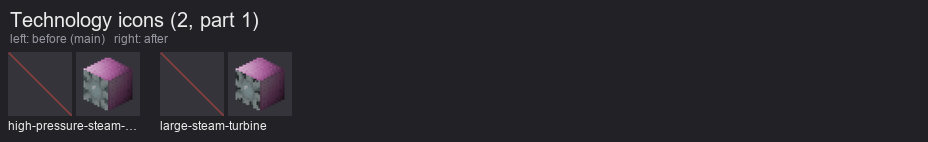
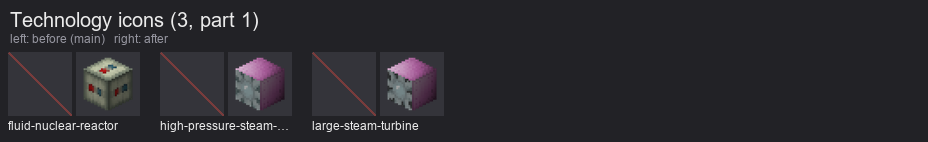
Build the fluid nuclear reactor and the large heat exchanger
Issue #97, part 2. The reactor is a recipe machine with a burner slot for
the fuel rods: at the 10.5 MW of the basic nuclear reactor it is built
from, it heats 21 coolant into hot coolant in 4 s (2 MJ per unit). The
large heat exchanger needs no power and turns hot coolant and distilled
water into coolant and steam (1 -> 40) or superheated steam (1 -> 20) at
GT's ratios and up to GT's 160 units per second; the player picks the
recipe, since a recipe cannot ask for GT's flow threshold. No lava recipe:
Gregtorio's lava is endless.

- 145: coolant (GT's mixer recipe at the tenth), hot coolant, both
  machines and their recipes, technology Fluid Nuclear Reactor (IV); the
  heat exchanger moves there from Nuclear Power, the reactor from Fusion
  Reactor MK1, the iridium neutron reflector comes there too
- the heat exchanger lists its outputs steam first: a machine fills its
  output boxes in the order of the recipe's results
- sprites (GT's heat exchanger, radiation proof casing), names, icon
- runtime test of the chain reactor -> heat exchanger -> high pressure
  turbine -> large steam turbine, the depleted rod and the steam recipe

Refs #97

diff --git a/tools/gen_sprites.py b/tools/gen_sprites.py
@@ -140,6 +140,14 @@ MULTIBLOCKS = {
                                   ("gregtech:iconsets/NAQUADAH_REACTOR_FLUID_FRONT",
                                    "gregtech:iconsets/NAQUADAH_REACTOR_FLUID_FRONT_ACTIVE"),
                                   "gregtech:iconsets/MACHINE_CASING_RADIATIONPROOF"),
+    # issue #97 (145-fork-power-multiblocks.lua): GT's large heat exchanger (stable titanium casing, titanium pipe
+    # casings in the middle row, its controller face) and the fluid nuclear reactor (GT's radiation proof casing
+    # around the upstream reactor icon; IC2's reactor has no texture in GT)
+    "large-heat-exchanger": ((3, 3), "stable-titanium-machine-casing", None,
+                             "gregtech:iconsets/OVERLAY_FRONT_HEAT_EXCHANGER",
+                             "gregtech:iconsets/MACHINE_CASING_PIPE_TITANIUM"),
+    "fluid-nuclear-reactor": ((3, 3), "gregtech:iconsets/MACHINE_CASING_RADIATIONPROOF", "fluid-nuclear-reactor",
+                              None, None),
 }
 # multiblocks without an upstream item icon: the icon is the controller tile
 CONTROLLER_ICONS = {"neutron-activator", "water-purification-plant", "uv-large-naquadah-reactor"}

diff --git a/tools/devcheck/devcheck.py b/tools/devcheck/devcheck.py
@@ -674,7 +674,7 @@ def runtime(a):
     print(f"benchmark: {ran.group(0) if ran else 'did not run'}")
     # the ME network's runtime tests are in me-network since issue #83 (its tools/devcheck)
     tests = (("MOLD", "mold test"), ("POWER", "power test"), ("FUEL", "fuel check test"), ("COOLED", "cooled fluid test"),
-             ("TIERS", "turbine tier test"), ("RECIPES", "recipe test"), ("STEAM", "steam turbine test"), ("VICTORY", "victory test"),
+             ("TIERS", "turbine tier test"), ("RECIPES", "recipe test"), ("STEAM", "steam turbine test"), ("CHAIN", "nuclear chain test"), ("VICTORY", "victory test"),
              ("POSTVICTORY", "post-victory test"))
     for key, label in tests:
         m = re.search(rf"DEVCHECK-RUNTIME-{key} (.*)", log)

diff --git a/tools/devcheck/README.md b/tools/devcheck/README.md
@@ -26,7 +26,7 @@ linked in, so every run tests the current files.
 | Command | What it does |
 |---|---|
 | `check` | Creates a map. Reports load errors, draft recipes hidden by the draft guard (it fails on one that is not in the documented rest list `DRAFTS_OK`, issue #39; drafts removed for good are deleted in `prototypes/137-fork-endgame-materials.lua` and counted as `FORK-REMOVED`), researchable technologies, where progression stops, every technology that cannot be researched and the disabled or missing prerequisites that block it (it fails if one is not in the list `UNRESEARCHABLE_OK` of vanilla armor, equipment and military techs, if one of the 23 quality-of-life techs of issue #29 in `QOL_TECHS` is neither researchable nor hidden, or if an `UNRESEARCHABLE_OK` entry became researchable, hidden or missing), missing `__gregtorio-continued__/` files, too small sprite sheets, and unlocked recipes that cannot be crafted (no machine, unobtainable ingredient, not enough fluid ports; a fuel that a burner which can be built burns leaves its burnt result, so the depleted fuel rods count as obtainable). Recipe unlocks (issue #91): every recipe that Gregtorio creates or changes (`prototypes.get_history`, logged by `checkmod/control.lua`) and that is not hidden must be enabled or unlocked by a researchable technology, unless it is in the allow-list `FORK_RECIPES_LOCKED` (`prototypes/142-fork-recipe-unlocks.lua`, with the reason); an entry that does not exist or is unlocked fails too. The recipes in `REQUIRED_RECIPES` (issue #35: grades 7 and 8, the quark creation catalyst, FPIC/APIC wafers and chips, complex SMDs; the materials of issues #39 and #36; the plasma forge and QFT of phase 6a; the godforge, its products and the MAX tier of phase 6b) must be unlocked by a researchable technology and their products obtainable. Crafting menu (issue #49): every recipe that is enabled or unlocked by a technology, not `hidden` and whose category has a machine must not be `hide_from_player_crafting`, unless it is in the allow-list `FORK_CRAFTING_MENU_HIDDEN` (`prototypes/198-fork-crafting-menu.lua`, by category, subgroup or name); it prints how many are shown and kept hidden and the recipes shown per crafting menu tab, and also fails on allow-list entries that match nothing. Skipped when the startup setting `gregtorio-continued-show-machine-recipes` is off. Fluids tab: every fluid that is not hidden (the base game's parameter fluids excepted) must have a subgroup of the item group `fluids`, else Factorio shows it under "Unsorted" (`prototypes/196-fork-subgroups.lua`); the check covers every fluid of the load, so also a vanilla fluid that Gregtorio redefines; fluids in the fallback row `gregtorio-fluids-unsorted` are listed as a warning; it prints the rows with their sizes. `--fluids-out fluids.tsv` writes the fluids with subgroup, order and icon (section `FLUIDS` of the dump), the input of `tools/gen_review_sheet.py fluids`. `--locale-out names.tsv` also writes the input for `tools/gen_locale.py`. `--techs REGEX` lists the matching technologies and whether they are researchable. `--balance-out dump.json` writes the recipes (amounts, times), machine speeds and technology unit counts as JSON (section `BALANCE` of the dump), the input of `tools/balance_model.py`. |
-| `runtime` | Places every assembling machine that has an item, gives it a recipe and power and runs the map (`--ticks`, default 1500) with a fixed map seed (`--seed`, see below). The ME network's runtime tests are in the mod me-network since issue #83 (`docs/SPLIT.md`): its `tools/devcheck/devcheck.py all --with-gregtorio <this checkout>` runs them on Gregtorio's recipes and machines. An LV alloy smelter with a mold recipe must stop without a mold, then run with a mold in its mold slot (checked when the first glass is out, at the latest 900 ticks later) and keep it there. Endgame power (`prototypes/136-fork-power.lua`, `scripts/fork-power.lua`): a LuV large plasma turbine with helium plasma and a turbine output hatch next to it and a UV large naquadah reactor with naquadah based fuel MK1, each with an electric energy interface drawing the generator's full output; at tick 420 both must generate, the turbine must have burnt about one plasma per second and the hatch must hold the cooled helium for it, the reactor must have burnt fuel at its rate; it reports `power test: ok`. Fuel check (issue #25, `scripts/fork-power.lua`): a LuV plasma turbine with steam from a pipe, a UV naquadah reactor with steam, a plasma turbine with naquadah fuel, a naquadah reactor with helium plasma, a UXV plasma turbine with steam and a UEV plasma turbine with naquadah fuel, each under full load in its own network, must make no power, keep all their fluid and show "Wrong fuel"; after they are emptied and get the right fuel they must run with no status. A running plasma turbine whose plasma is replaced by steam between two checks may burn steam for at most one check interval (10 ticks) and must then stay stopped; it reports `fuel check test: ok (window: ...)`. Cooled fluid (issue #28, `scripts/fork-power.lua`): LuV plasma turbines, each with an output hatch and a load set every tick, burn 4 helium plasma at full load, 2 at 40 % and 1.5 under a burst load (full for 5 ticks out of 23) to the last drop, and each hatch must then hold that much helium; an idle turbine returns only what filling its load's buffer took; a hatch that starts full keeps the rest owed and gets all of it once emptied; two turbines side by side on helium and nitrogen plasma fill only their own hatch. A running turbine is compared as hatch + owed + the energy of the current step / fuel value, tolerance 0.1 % + 0.001 units; it reports `cooled fluid test: ok (... worst error ...)`. The power test uses the same tolerance. Turbine tiers (issue #34): one UHV to UXV large plasma turbine each (helium, nitrogen and iron plasma), a UXV one on neon plasma and two MAX ones (phase 6b: helium and neon plasma), each with an output hatch and a load of twice its output, must generate exactly four amps of their tier per tick and, once their plasma is burnt to the last drop, hold exactly that much cooled fluid (helium, nitrogen, molten iron, neon) in the hatch, same tolerance; it reports `turbine tier test: ok (...)`. Recipes (issue #35, `prototypes/129-fork-water-purification.lua`): above the machine grid, a water purification plant each for grade 7 and grade 8 water, UHV/UEV laser engravers and assembling machines for the FPIC/APIC wafers and chips, UV assembling machines for the five complex SMDs, ZPM assembly lines for the quark creation catalyst, the UEV and UIV energy hatches and the MK4 controller, a circuit assembly line for the wetware mainframe, and for issues #39 and #36 (`prototypes/137-fork-endgame-materials.lua`) the circuit assembler lapotronic energy orb cluster, the high density plutonium steps and the plutonium fuel, super coolant, the 1080k super coolant cell, the fluxed electrum, bedrockium and quantium ingots and melts, naquadah fuel MK2, grade 5 water and the UXV energy hatch, phase 6a's plasma forge catalyst and crude spacetime and a QFT recipe, and phase 6b's raw star matter and neutronium magmatter in a godforge, the stellar catalyst in a plasma forge, the MAX motor, the maximum voltage coil in a MAX assembler and the MAX science pack from MAX parts, and for issue #91 (`prototypes/142-fork-recipe-unlocks.lua`) signalum, the naquadah doped boule, charcoal byproducts, cyanoacetic acid and super glue, nether air in its ender tank, 64 LV motors in the component assembly line, a microminer mission, a depleted fuel rod, a block, a molten alloy and its ingot, a cast of every form (ingot, plate, block, nugget, gear, large gear, rotor, rod, long rod, bolt, ring, screw, round) and three melts of the fluid extractor (`prototypes/143-fork-casting.lua`), blast furnace recipes with neon, krypton and xenon, nitric acid from nitrogen dioxide, raw gasoline, gasoline and the gasoline cell (`prototypes/144-fork-dead-fluids.lua`) get exactly one craft's ingredients (every item and fluid must fit; a recipe that needs a mold gets one in the mold slot); once a machine crafts, its progress is set close to the end and its main product must come out by tick 900; it reports `recipe test: ok`. Steam turbines (issue #97, `prototypes/145-fork-power-multiblocks.lua`): a large steam turbine on steam and a high pressure steam turbine on superheated steam, each overloaded and with an output hatch, must make exactly their full output (11.25 and 28.35 MW) at tick 240, have burnt their GT flow (180 and 210 per second, counted in the turbine and its pipeline segment) and their hatches must hold 0.0625 distilled water per steam and one steam per superheated steam (hatch + owed + the energy of the current step, the tolerance of the cooled fluid test); superheated steam in the large turbine and steam in the high pressure one must stop them with "Wrong fuel"; each multiblock of issue #97 is put into a blueprint (it must be in it) and mined (its item must come back); it reports `steam turbine test: ok (...)`. When every other test has reported (at the latest at tick 1450, a test still running then is reported as unfinished) the technology `victory` is researched by script and the game must be finished (`scripts/fork-victory.lua`); winning stops the scripts of the benchmark, so this runs last. In the same tick the post-victory test (phase 6b) researches the prerequisites of the infinite `godforge-upgrades` by script; the engine must accept it in the research queue (`victory` is no prerequisite: an infinite technology counts only at its last level), and its first level must give the godforge's magmatter recipe +5 % productivity (`post-victory test: ok`). |
+| `runtime` | Places every assembling machine that has an item, gives it a recipe and power and runs the map (`--ticks`, default 1500) with a fixed map seed (`--seed`, see below). The ME network's runtime tests are in the mod me-network since issue #83 (`docs/SPLIT.md`): its `tools/devcheck/devcheck.py all --with-gregtorio <this checkout>` runs them on Gregtorio's recipes and machines. An LV alloy smelter with a mold recipe must stop without a mold, then run with a mold in its mold slot (checked when the first glass is out, at the latest 900 ticks later) and keep it there. Endgame power (`prototypes/136-fork-power.lua`, `scripts/fork-power.lua`): a LuV large plasma turbine with helium plasma and a turbine output hatch next to it and a UV large naquadah reactor with naquadah based fuel MK1, each with an electric energy interface drawing the generator's full output; at tick 420 both must generate, the turbine must have burnt about one plasma per second and the hatch must hold the cooled helium for it, the reactor must have burnt fuel at its rate; it reports `power test: ok`. Fuel check (issue #25, `scripts/fork-power.lua`): a LuV plasma turbine with steam from a pipe, a UV naquadah reactor with steam, a plasma turbine with naquadah fuel, a naquadah reactor with helium plasma, a UXV plasma turbine with steam and a UEV plasma turbine with naquadah fuel, each under full load in its own network, must make no power, keep all their fluid and show "Wrong fuel"; after they are emptied and get the right fuel they must run with no status. A running plasma turbine whose plasma is replaced by steam between two checks may burn steam for at most one check interval (10 ticks) and must then stay stopped; it reports `fuel check test: ok (window: ...)`. Cooled fluid (issue #28, `scripts/fork-power.lua`): LuV plasma turbines, each with an output hatch and a load set every tick, burn 4 helium plasma at full load, 2 at 40 % and 1.5 under a burst load (full for 5 ticks out of 23) to the last drop, and each hatch must then hold that much helium; an idle turbine returns only what filling its load's buffer took; a hatch that starts full keeps the rest owed and gets all of it once emptied; two turbines side by side on helium and nitrogen plasma fill only their own hatch. A running turbine is compared as hatch + owed + the energy of the current step / fuel value, tolerance 0.1 % + 0.001 units; it reports `cooled fluid test: ok (... worst error ...)`. The power test uses the same tolerance. Turbine tiers (issue #34): one UHV to UXV large plasma turbine each (helium, nitrogen and iron plasma), a UXV one on neon plasma and two MAX ones (phase 6b: helium and neon plasma), each with an output hatch and a load of twice its output, must generate exactly four amps of their tier per tick and, once their plasma is burnt to the last drop, hold exactly that much cooled fluid (helium, nitrogen, molten iron, neon) in the hatch, same tolerance; it reports `turbine tier test: ok (...)`. Recipes (issue #35, `prototypes/129-fork-water-purification.lua`): above the machine grid, a water purification plant each for grade 7 and grade 8 water, UHV/UEV laser engravers and assembling machines for the FPIC/APIC wafers and chips, UV assembling machines for the five complex SMDs, ZPM assembly lines for the quark creation catalyst, the UEV and UIV energy hatches and the MK4 controller, a circuit assembly line for the wetware mainframe, and for issues #39 and #36 (`prototypes/137-fork-endgame-materials.lua`) the circuit assembler lapotronic energy orb cluster, the high density plutonium steps and the plutonium fuel, super coolant, the 1080k super coolant cell, the fluxed electrum, bedrockium and quantium ingots and melts, naquadah fuel MK2, grade 5 water and the UXV energy hatch, phase 6a's plasma forge catalyst and crude spacetime and a QFT recipe, and phase 6b's raw star matter and neutronium magmatter in a godforge, the stellar catalyst in a plasma forge, the MAX motor, the maximum voltage coil in a MAX assembler and the MAX science pack from MAX parts, and for issue #91 (`prototypes/142-fork-recipe-unlocks.lua`) signalum, the naquadah doped boule, charcoal byproducts, cyanoacetic acid and super glue, nether air in its ender tank, 64 LV motors in the component assembly line, a microminer mission, a depleted fuel rod, a block, a molten alloy and its ingot, a cast of every form (ingot, plate, block, nugget, gear, large gear, rotor, rod, long rod, bolt, ring, screw, round) and three melts of the fluid extractor (`prototypes/143-fork-casting.lua`), blast furnace recipes with neon, krypton and xenon, nitric acid from nitrogen dioxide, raw gasoline, gasoline and the gasoline cell (`prototypes/144-fork-dead-fluids.lua`) get exactly one craft's ingredients (every item and fluid must fit; a recipe that needs a mold gets one in the mold slot); once a machine crafts, its progress is set close to the end and its main product must come out by tick 900; it reports `recipe test: ok`. Steam turbines (issue #97, `prototypes/145-fork-power-multiblocks.lua`): a large steam turbine on steam and a high pressure steam turbine on superheated steam, each overloaded and with an output hatch, must make exactly their full output (11.25 and 28.35 MW) at tick 240, have burnt their GT flow (180 and 210 per second, counted in the turbine and its pipeline segment) and their hatches must hold 0.0625 distilled water per steam and one steam per superheated steam (hatch + owed + the energy of the current step, the tolerance of the cooled fluid test); superheated steam in the large turbine and steam in the high pressure one must stop them with "Wrong fuel"; each multiblock of issue #97 is put into a blueprint (it must be in it) and mined (its item must come back); it reports `steam turbine test: ok (...)`. Nuclear chain (issue #97): a fluid nuclear reactor with two uranium rods (the first shortened to 2 s) piped into a large heat exchanger on superheated steam, a high pressure steam turbine on it, its steam through an output hatch and pipes into a large steam turbine, both turbines under a load of twice their output; coolant and distilled water are topped up every tick. At tick 1380 a depleted rod must be out and the second rod burning, both turbines must have made power, and their energy since tick 300 must be 3.95 MJ per hot coolant the reactor made (60 % to 125 %: the 4 s crafts and the pipes); a second heat exchanger on the steam recipe turns 32 hot coolant and 80 distilled water into exactly 1280 steam and 32 coolant; it reports `nuclear chain test: ok (...)`. When every other test has reported (at the latest at tick 1450, a test still running then is reported as unfinished) the technology `victory` is researched by script and the game must be finished (`scripts/fork-victory.lua`); winning stops the scripts of the benchmark, so this runs last. In the same tick the post-victory test (phase 6b) researches the prerequisites of the infinite `godforge-upgrades` by script; the engine must accept it in the research queue (`victory` is no prerequisite: an infinite technology counts only at its last level), and its first level must give the godforge's magmatter recipe +5 % productivity (`post-victory test: ok`). |
 | `migrate --from-ref <tag/commit>` or `--from-zip <zip>` | Creates a save (same fixed map seed, `--seed`) with an older version and loads it with the working copy. When the working copy still has the version of the old save (between releases), it is loaded as a zip one patch version up, as the release will be, so that Gregtorio's `on_configuration_changed` runs with its mod changes. `--old-me-network <ref>` creates the old save with that release of the me-network checkout (exported with `git archive`; Gregtorio 0.5.0 shipped with me-network v0.1.0, whose fluid interface the current me-network no longer has) and loads it with the current one. Technology effects (issue #91): the old save researches a few technologies with their prerequisites (`TT_TECHS` of `migratemod/`); after the update every recipe that a researched technology unlocks must be enabled (the technology effect reset of `control.lua` brings the new unlocks into existing saves; `technology effects of the old save: ok (... N of them new)`). The unmodified upstream 0.1.9 import is commit `0e935ba` (tag `v0.1.9-upstream`). If the old version has ME fluid drives, the helper mod `migratemod/` builds two loaded drives in a network, a loaded drive outside any network, recovered fluid without a network at its place and a chest with two loaded fluid drive items; after the update (issue #68 R2) the drives must be ME Drives with four 1k fluid cells holding their fluid, the recovered fluid must be in the nearest drive with room, the items' fluid in fluid cells next to the untagged items, and the migration report (`FORK-ME-MIGRATE: fluids`, printed) must count the same units before and after (`fluid drives of the old save: ok`; `skipped` for older versions). An old version with the cable network of R1 builds the same on a controller connected by cables. If the old version has the large naquadah reactor, it also builds one full of steam under load, which must be stopped with the "Wrong fuel" status and keep its steam after the update (`reactor on steam in the old save: ok`; `skipped` for older versions). If the old version has pattern providers, it also builds a Molecular Assembler with the gear recipe and a fresh iron furnace with providers, and chooses the furnace's recipe in its provider (versions with the choice): after the update (issue #80) the assembler's provider must hold a crafting pattern of the gear recipe and the furnace's provider a processing pattern of the chosen recipe, both usable and their items craftable (`FORK-ME-MIGRATE: patterns` lines, printed; `pattern providers of the old save: ok`; `skipped` for older versions). In the same network it starts a gear job with the old version on a powered crafting CPU and (versions with it) sets a level maintainer to keep 8 gears; after the update (which rebuilds the CPU records, issue #38) the job must finish with the gears in storage, the CPU must count one free job slot and the maintainer must then finish a job of its own (`crafting job of the old save: ok`). Old versions that store fluids in cells already (0.4.0 and later) have no fluid drives to convert (`fluid drives of the old save: skipped`). Default `--ticks` 600. If the old version has the logistic ME network (before issue #68), the old save also gets a 1k drive with items (another quality, a blueprint the new network cannot store), a requester interface with items in its inventory and trash, a terminal, a second controller in the same logistic network, a chest with 16 storage cells on one stack, old drive items and the ghost of an old drive; after the update no old entity may be left, every block must be connected to the new controller, the new drives must hold four cells of their tier, the migration report (`FORK-ME-MIGRATE` lines, printed) must have counted exactly the old chests' items and found no difference, those items must be in the network (the job's items aside) and the blueprint in an overflow chest, and the cells and old items must be kept (`ME network of the old save converted (issue #68): ok`; `skipped` for older versions). The test area of the old save is landfilled (the migration cannot lay cables on water). If the old version has the large plasma turbine, it also builds one on helium plasma under full load with an output hatch: after the update it must run and, at tick 120, return one helium per plasma burnt within 0.1 % (`plasma turbine of the old save: ok`; `skipped` for older versions). A map that could not be saved (for example a function in `storage`) is reported instead of running the previous map file. Issue #83: the working copy is loaded together with me-network (a checkout or its zip, see Setup), the old version without it; the ME state of the old save is handed over to me-network when it loads. The fingerprints of every handed table (`FORK-ME-HANDOVER: gave` of gregtorio-continued, `ME-NETWORK-HANDOVER: got` of me-network) must be equal (`hand-over fingerprints: ok`). Versions with storage buses, fluid cells and drive settings (0.4.0 and later) also get a network for the hand-over: a drive with a partitioned item cell, a second item cell and a fluid cell and priority 7, reached only through an underground cable pair, an ME Interface with a config row, an import and an export bus with filters, a storage bus on a chest of stone and a fluid storage bus on a tank of water (filters, priority, mode), a fluid interface set to export; after the update the totals of items and fluids (in cells, chests, tanks and the interface) and every block's settings must be the ones of the old save and the drive must still be in the controller's network (`ME state handed over to me-network (issue #83): ok`). Versions with encoded patterns (0.5.0 and later) give the old providers their patterns through the terminal's encoding function. |
 | `menusim` | Runs main menu simulations (PR #65) the way the main menu does: the helper mod `menusimmod/` copies `main_menu_simulations` as the game has them after every mod into a mod-data prototype, devcheck loads the simulation's save with `--benchmark` for the simulation's length, and the helper runs its init chunk on the first tick (after the mods' `on_init` and `on_configuration_changed`, as in the menu) and its update chunk every tick; `game.simulation` (the menu camera) gets a stand-in. A game won by the init chunk (`research_all_technologies()` researches `victory`) is set running again, because the menu keeps running a simulation and the benchmark would not. It logs the force bonuses and every character's armor at the start, every second each character's health, shields, battery energy, enemies within 20 tiles and the damage taken by type and source, and every character death with its cause. `--sim NAME` (default `nauvis_biter_base_laser_defense`, prints the log) or `--sim all` (one line per simulation, `--verbose` for the log), `--compare` also runs the simulations without Gregtorio, `--ticks N` overrides the length. Fails on an error in a simulation's script. |
 | `handover` | Issue #83 (`docs/SPLIT.md`): prototype of the one-time hand-over of the ME state from `gregtorio-continued` to `me-network`, with two stand-in mods in `handover/` (no Gregtorio). The giver (Gregtorio) in version 1 builds ME-like state on a new map (entities of a prototype that moves to the taker, items with tags of a moved item prototype in a moved entity and in a vanilla chest, storage tables with entity references, a table shared by two tables and across two storage tables, fractional amounts, a render object) and saves it. The save is loaded with version 2 of the giver (depends on the taker, has only the remote interface `zz-handover` with `take`) and the taker (me-network, new in the save), which pulls the tables in its `on_init` and checks them. It prints the order of the lifecycle events of both mods (`HANDOVER-ORDER`) and the checks, then loads the save once more with the giver leaving one table out (the taker must notice), loads the old giver with the taker (the taker's data stage must refuse it) and the new giver without the taker (the engine must refuse it). |

diff --git a/README.md b/README.md
@@ -39,7 +39,7 @@ The repository root is the mod itself (`info.json`, `data.lua`, `prototypes/`, `
 | `prototypes/142-fork-recipe-unlocks.lua` | issue #91: every Gregtorio recipe gets a technology (explicit table by tier); the producers GT has and Gregtorio lacked (signalum, naquadah doped boule, charcoal byproducts, GT++'s glue line condensed), the component assembly line, the ender tanks, microminer missions for GT's space veins, two technologies (tier four microminers, super glue) and the allow-list `FORK_RECIPES_LOCKED` of recipes that stay locked |
 | `scripts/fork-power.lua` | the cooled fluid of the plasma turbines: the plasma a turbine burns (its energy, summed every tick) goes as the cooled fluid into the turbine output hatches next to it, one unit per unit (issue #97: the steam turbines give back distilled water and steam at their own ratio); the fuel check of the generators |
 | `scripts/fork-victory.lua` | researching the first level of the tech `victory` wins the game (the game can be continued) |
-| `prototypes/145-fork-power-multiblocks.lua` | issue #97: the large steam turbine (EV) and the high pressure steam turbine (IV) as generators of 136 (GT's rotor efficiencies and flows), superheated steam, their technologies; loads after 138 and before 142 and 196 |
+| `prototypes/145-fork-power-multiblocks.lua` | issue #97: the large steam turbine (EV) and the high pressure steam turbine (IV) as generators of 136 (GT's rotor efficiencies and flows), superheated steam, the fluid nuclear reactor and the large heat exchanger (IV recipe machines: fuel rods heat coolant, hot coolant makes steam or superheated steam), coolant and hot coolant, their technologies; loads after 138 and before 142 and 196 |
 | `prototypes/150-fork-molds.lua` | molds stay in the machine: the mold is a module in a mold-only slot of alloy smelters, fluid solidifiers and extruders instead of an ingredient or machine component |
 | `scripts/fork-molds.lua` | stops machines with a mold recipe and no mold ("Missing mold"); gives machines their mold once in saves from before they had a mold slot |
 | `prototypes/fork-menu-simulations.lua` | main menu simulations (PR #65), loaded from `data-final-fixes.lua`: simulations that call `research_all_technologies()` get the bonuses of the vanilla techs Gregtorio disables (the laser defense simulation's character died without them); check with `devcheck.py menusim --sim all --compare` |

diff --git a/docs/graphics-review/README.md b/docs/graphics-review/README.md
@@ -13,7 +13,7 @@ Regenerate them with `python tools/gen_review_sheet.py all`.
 | `phase-6a/` | phase 6a (issue #37): the item icons, technology icons and sprites of the dimensionally transcendent plasma forge and the quantum force transformer (`python tools/gen_review_sheet.py all --out <dir>`, the sheets of the new group) |
 | `phase-6b/` | phase 6b (issue #37): the item icons (MAX tier and godforge group), technology icons, the godforge sprite, the MAX basic machines, the MAX upgrade multiblocks and the MAX large plasma turbine (`python tools/gen_review_sheet.py all --ref <6a head> --out <dir>`, the sheets of the new group) |
 | `issue-99/` | issue #99: the component assembly line and the two ender tanks (`sprites-*.png`, before: none of their own), the 13 melts of issue #91 that were too dark or had the wrong colour (`fluid-icons.png`, `python tools/gen_review_sheet.py fluid-icons --out <dir>`), and the item icon sheets with the gasoline cell and the component assembly line (`icons-*.png`) |
-| `issue-97/` | issue #97: the sprites of the steam, nuclear and storage multiblocks (`sprites-*.png`, before: none; GT's large turbine faces of steel and titanium with the EV and IV dynamo hatches on the corners) and their technology icons (`techs-1.png`) |
+| `issue-97/` | issue #97: the sprites of the steam, nuclear and storage multiblocks (`sprites-*.png`, before: none; GT's large turbine faces of steel and titanium with the EV and IV dynamo hatches on the corners, GT's large heat exchanger, the fluid nuclear reactor in GT's radiation proof casing) and their technology icons (`techs-1.png`) |
 | `fluids-tab.png` | the Fluids tab of the signal and fluid choosers: one block per subgroup (a row in the game), the fluid icons with their names (`python tools/devcheck/devcheck.py check --fluids-out fluids.tsv`, then `python tools/gen_review_sheet.py fluids --fluids fluids.tsv`) |
 | `icon-sources.tsv` | for every item, the textures it is made of (`tools/gen_gt_icons.py --sources`) |
 

diff --git a/CLAUDE.md b/CLAUDE.md
@@ -37,7 +37,8 @@
   form and extractor melts of every ingot from its table `MATERIALS` (tier, technology, the colour of a new melt);
   199's auto-unlock ignores these recipes (`FORK_CASTING.recipes`), else an ingot would count as its own producer;
   must load before 150, whose molds it needs, and before 196, 198 and 199), 145 power multiblocks (issue #97: the large
-  steam turbine and the high pressure steam turbine as generators of 136 with superheated steam; their technologies are
+  steam turbine and the high pressure steam turbine as generators of 136 with superheated steam, the fluid nuclear reactor
+  (burner recipe machine for the fuel rods) and the large heat exchanger with coolant and hot coolant; their technologies are
   named in 142's `UNLOCKS`, so it loads after 138 and **before** 142, and before 196 for its fluids; it takes 136's
   generator from the global `FORK_POWER` and adds to its mod data `fork-power`), 144 dead fluids (issue #91: GT's uses and
   producers of fluids nothing made or used; the blast furnace gas variants of `EBF_GASES` are in `FORK_GAS_VARIANTS`,
